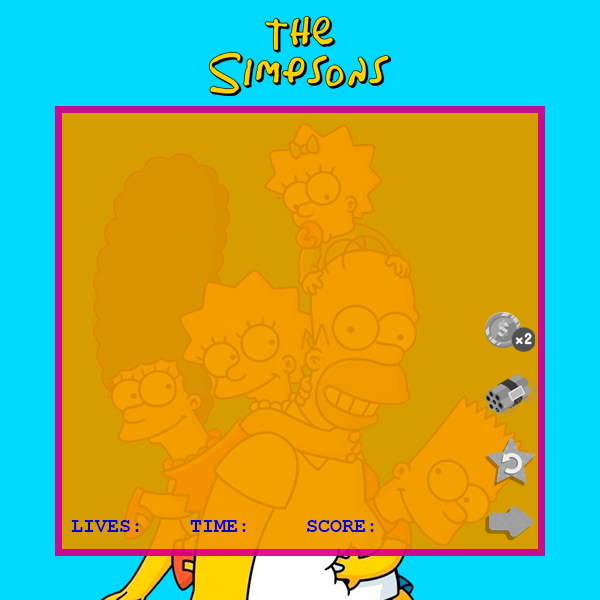
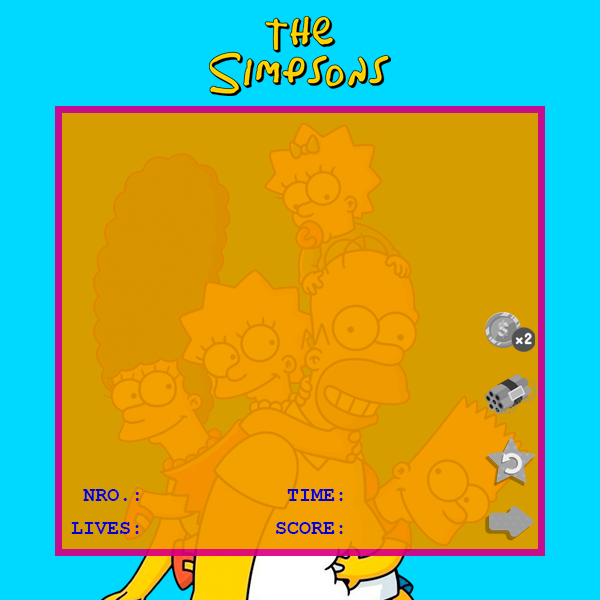
commit_38

diff --git a/methods.py b/methods.py
@@ -212,13 +212,13 @@ def update_options(question : dict):
         question[OPTIONS_RENDER] = options
 
 
-def update_labels(labels : list[dict]):
+def update_labels(labels : list[dict], max_index : int=0):
     font_color = library.get_font_color()
     font_sys = library.get_font_sys()
 
     for label in labels:
         key_render = f'{label.get(ID)}{LOW_HYPHEN_STR}{RENDER}'
-        label[key_render] = font_sys.render(library.get_label_value(label.get(ID)), True, font_color)
+        label[key_render] = font_sys.render(library.get_label_value(label.get(ID), max_index), True, font_color)
 
 
 def update_item(is_win : bool, items : dict[str, dict], user_answer : int):
@@ -267,7 +267,7 @@ def update_game(questions : list[dict], labels : list[dict], items : dict[str, d
     question = questions[globals.get_current_question()]
     update_question(question)
     update_options(question)
-    update_labels(labels)
+    update_labels(labels, len(questions))
 
 
 def update_gameover(events : list[pg.event.Event]):
@@ -431,6 +431,11 @@ def draw_buttons(screen : pg.surface.Surface, buttons : list[dict]):
                 surface_fill.fill(BRIGHT_CLICK, special_flags=pg.BLEND_RGBA_ADD)
 
             screen.blit(surface_fill, rect)
+
+
+def draw_number_ques(screen : pg.surface.Surface):
+    number_quest = str(globals.get_current_question() + INT_1)
+
 
 
 def draw_question(screen : pg.surface.Surface, question : dict):

diff --git a/library.py b/library.py
@@ -140,10 +140,11 @@ def get_items(config : dict, instance : str) -> dict[str, dict]:
     return instance_items
 
 
-def get_label_value(id : str) -> None | str:
+def get_label_value(id : str, max_index : int=0) -> None | str:
     value = None
     if globals.get_game_on():
-        if id == LIVES : value = str(globals.get_lives())
+        if id == NUMBER : value = f'{(globals.get_current_question()+INT_1)}{SLASH_STR}{max_index}'
+        elif id == LIVES : value = str(globals.get_lives())
         elif id == TIME : value = str(globals.get_play_time())
         elif id == SCORE : value = str(globals.get_score())
     

diff --git a/constants.py b/constants.py
@@ -130,6 +130,7 @@ LOW_HYPHEN_STR = '_'
 COMMA_STR = ','
 ASTERISK_STR = '*'
 PERCENT_STR = '%'
+SLASH_STR = '/'
 
 # EVENTS
 EVENT_1000MS = pg.USEREVENT
@@ -173,6 +174,7 @@ NO_EFFECT_BUTTONS = [ON_MUSIC_BUTTON,ON_EFFECTS_BUTTON,EASY_BUTTON,MIDDLE_BUTTON
 
 # LABELS
 PLAY_TIME = 'play_time'
+NUMBER = 'number'
 LIVES = 'lives'
 PENALTY = 'penalty'
 TIME = 'time'
